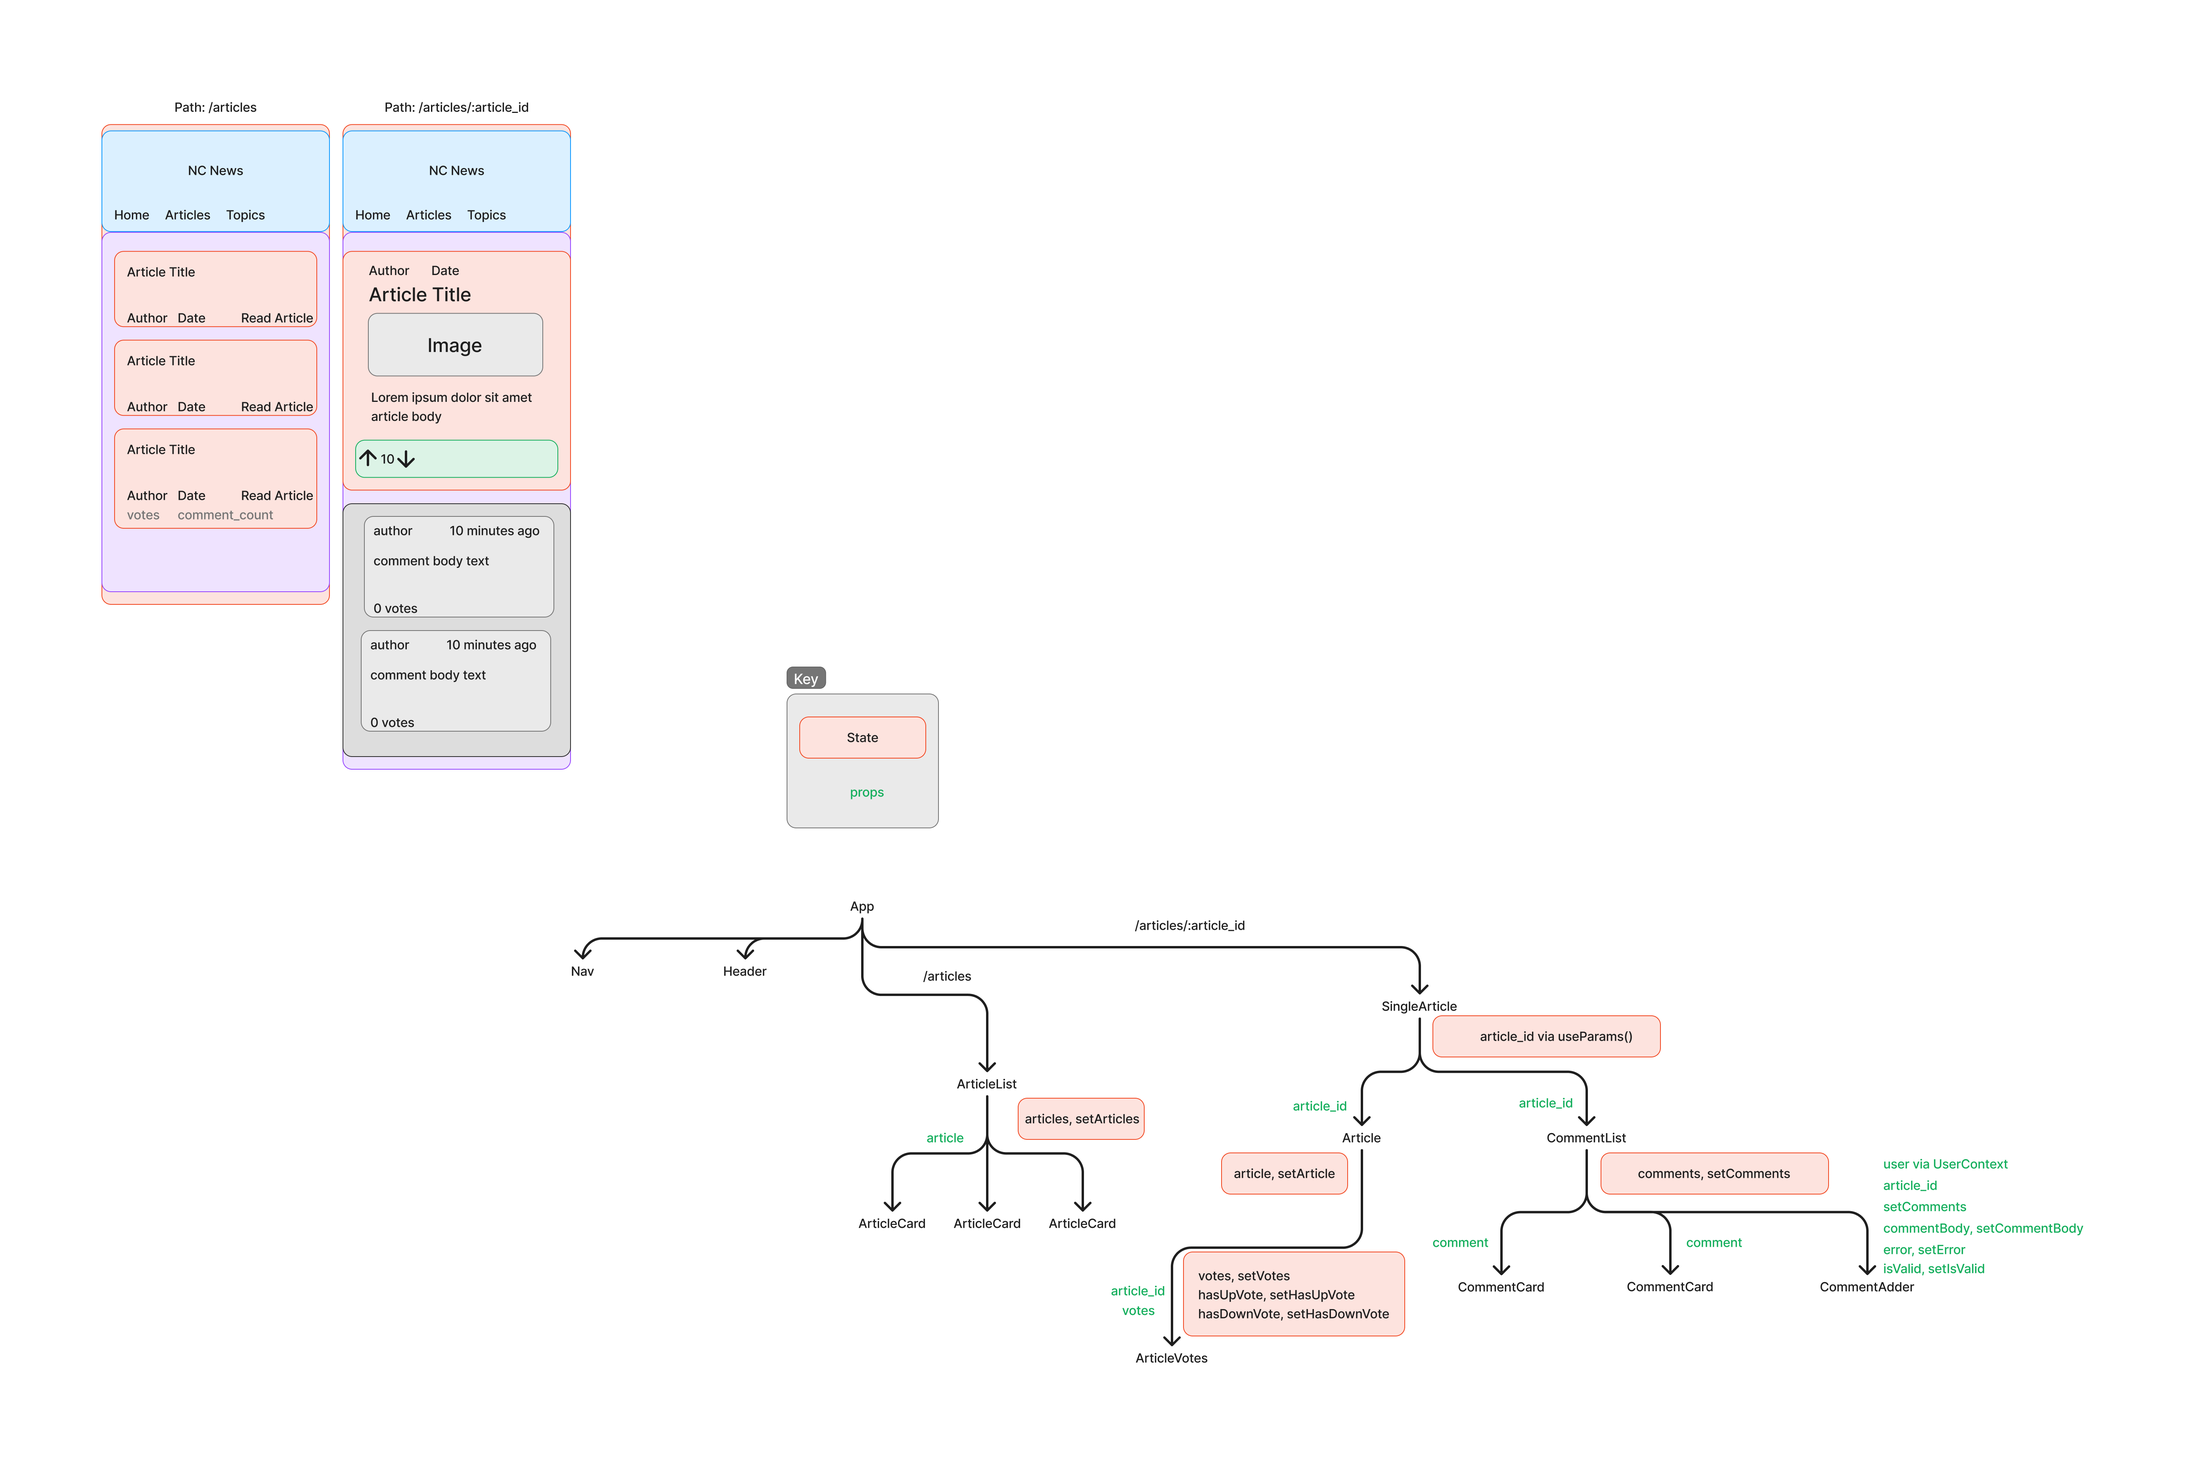
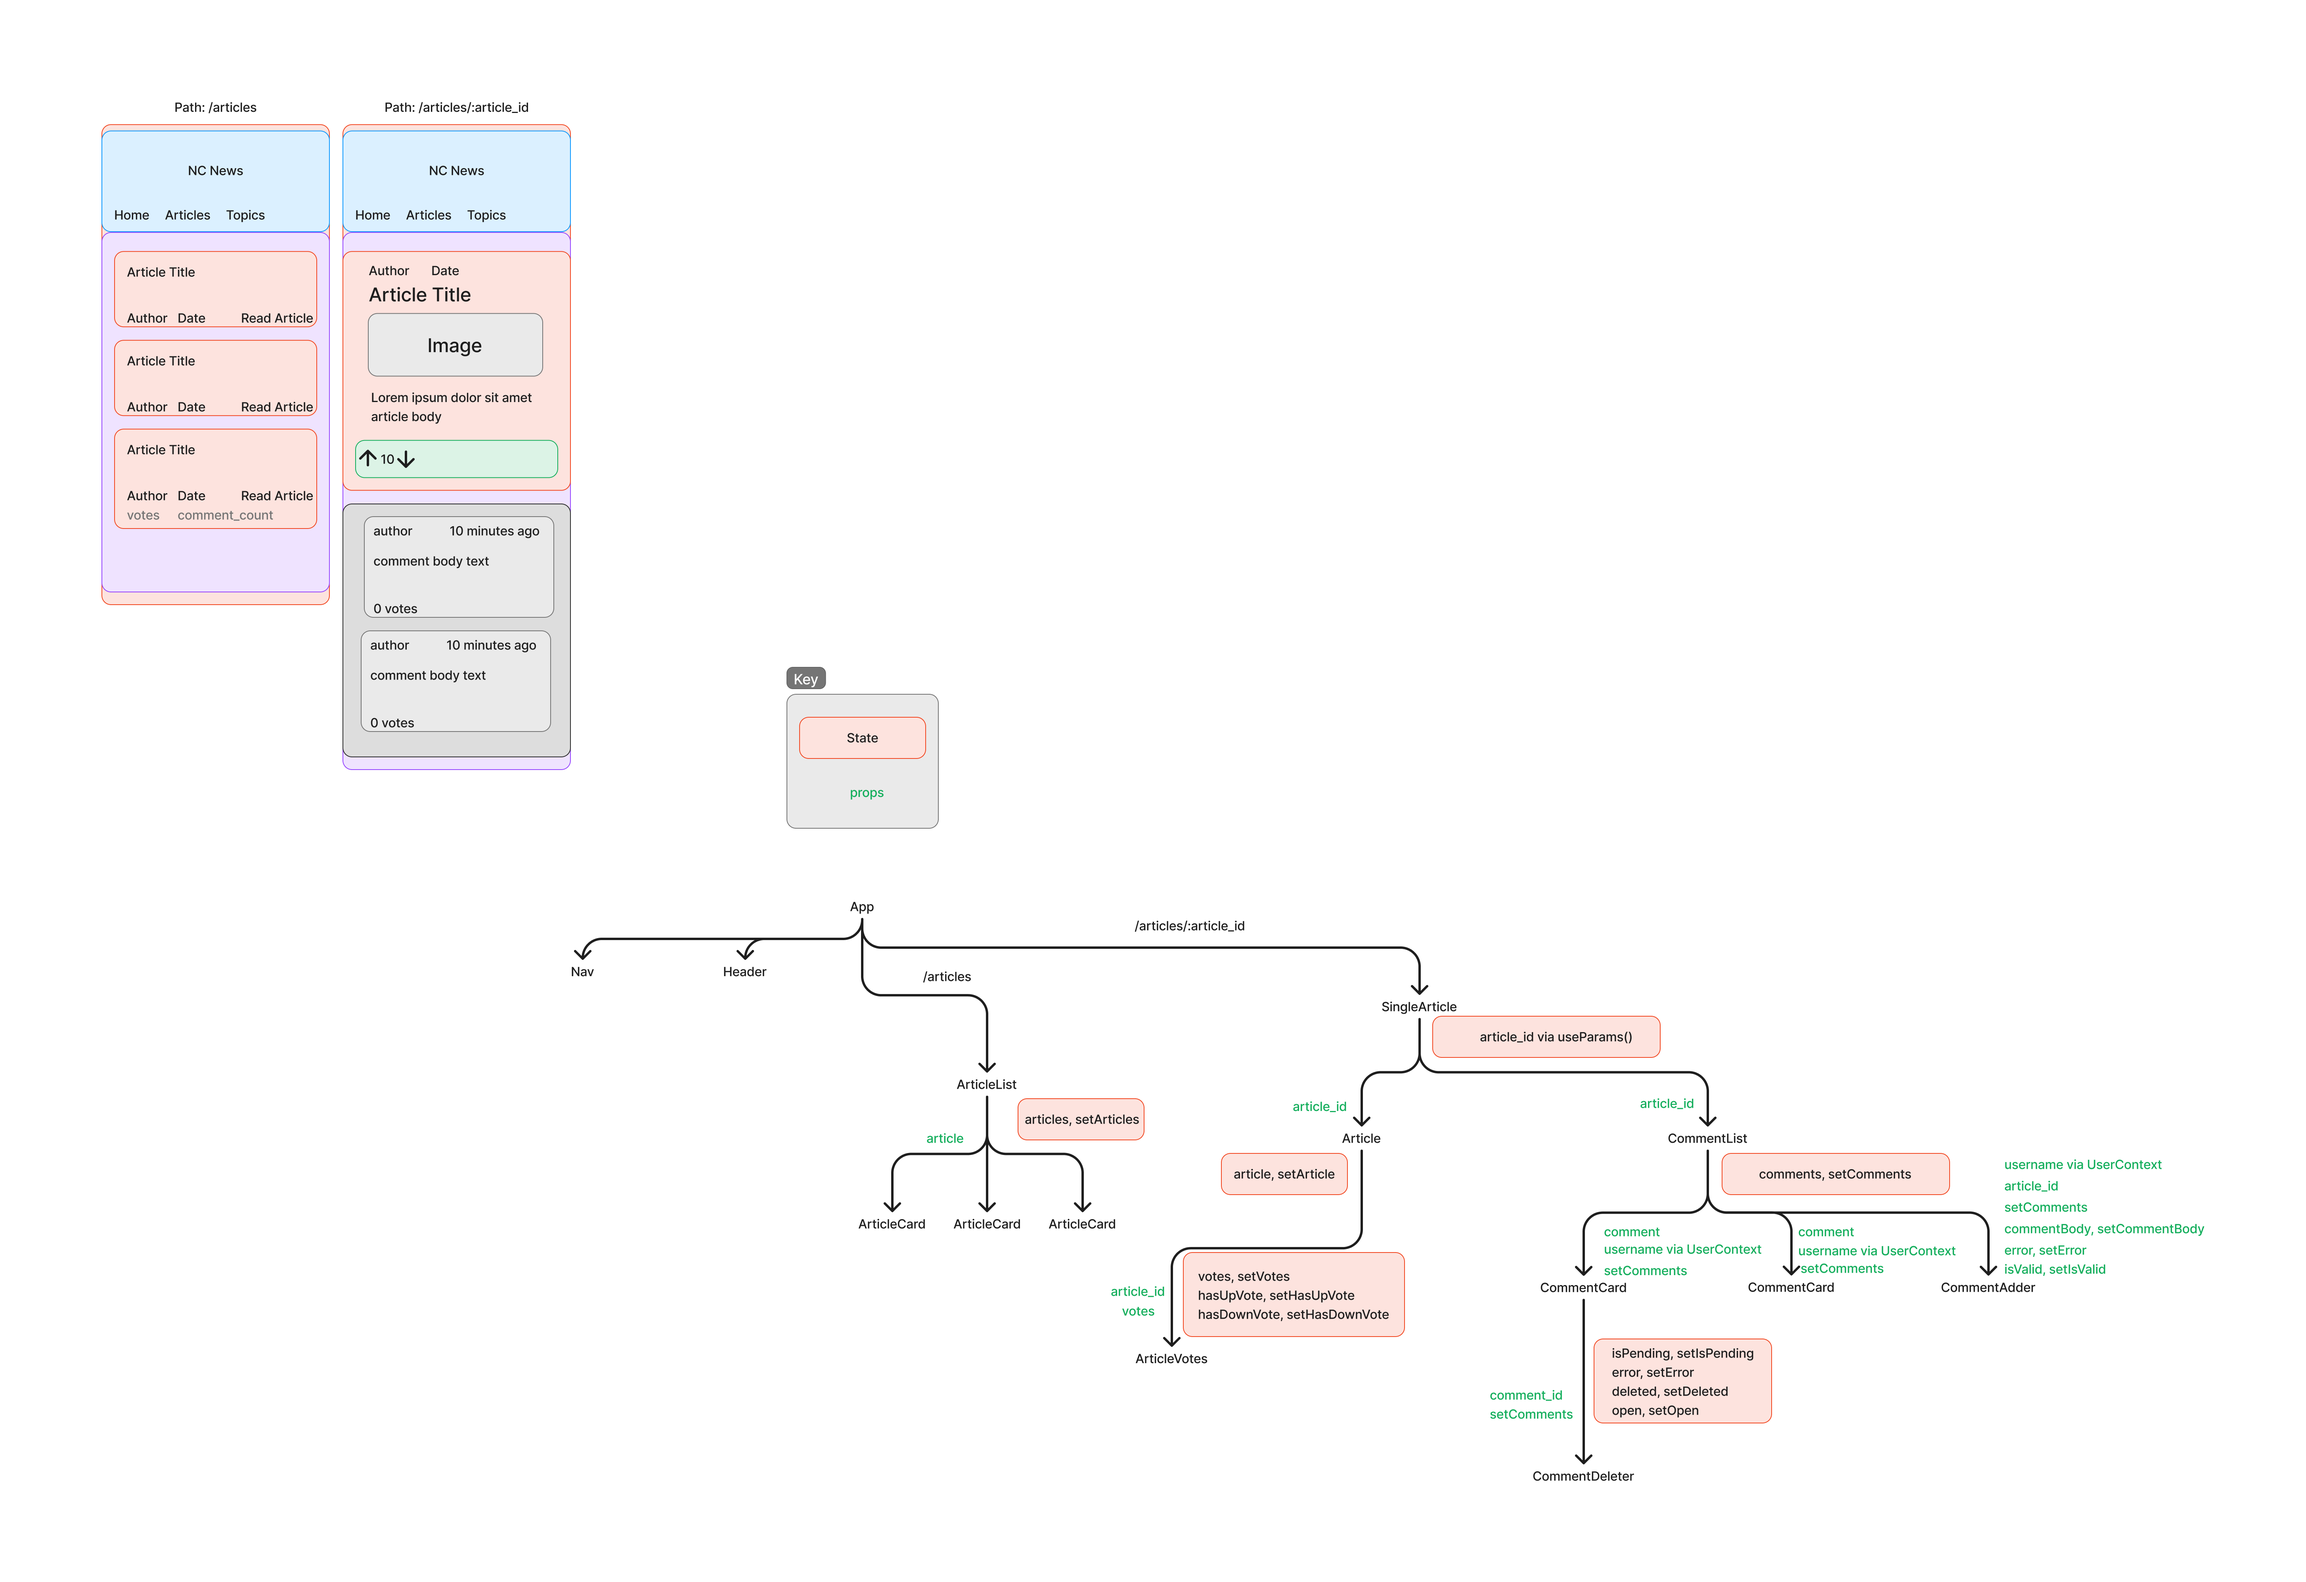
Adds CommentDelete component, util function for deleting comments on the API, modifies CommentCard to use CommentDeleter and updates NC-News Plan.png

diff --git a/src/components/CommentDeleter.jsx b/src/components/CommentDeleter.jsx
@@ -1,0 +1,135 @@
+import { useState } from "react";
+import {
+  Dialog,
+  DialogActions,
+  DialogContent,
+  DialogContentText,
+  Button,
+  IconButton,
+  DialogTitle,
+} from "@mui/material";
+import DeleteIcon from "@mui/icons-material/Delete";
+import { deleteComment } from "../utils/api";
+
+export default function CommentDeleter({ comment_id, setComments }) {
+  const [isPending, setIsPending] = useState(false);
+  const [open, setIsOpen] = useState(false);
+  const [deleted, setDeleted] = useState(false);
+  const [error, setError] = useState(false);
+
+  async function handleConfirm() {
+    try {
+      setIsPending(true);
+      await deleteComment(comment_id);
+      setIsPending(false);
+      setDeleted(true);
+    } catch (err) {
+      setIsOpen(false);
+      setIsPending(false);
+      setDeleted(false);
+      setError(err);
+    }
+  }
+
+  function handleCloseDeleteSuccess() {
+    //Remove comment from comment list only after closing the deletion success dialog.
+    //If we remove the comment before, the component will be unmounted
+    //before we get a chance to show it.
+    setComments((currComments) => {
+      return currComments.filter(
+        (comment) => comment.comment_id !== comment_id
+      );
+    });
+  }
+
+  const PendingDialog = (
+    <Dialog open={isPending}>
+      <DialogTitle color="info">Deleting Comment</DialogTitle>
+      <DialogContent>
+        <DialogContentText>Please wait...</DialogContentText>
+      </DialogContent>
+    </Dialog>
+  );
+
+  const DeleteSuccessDialog = (
+    <Dialog open={deleted}>
+      <DialogTitle color="success">Success!</DialogTitle>
+      <DialogContent>
+        <DialogContentText>Comment successfully deleted</DialogContentText>
+      </DialogContent>
+      <DialogActions>
+        <Button
+          aria-label="close delete success dialog"
+          onClick={() => {
+            handleCloseDeleteSuccess();
+          }}
+          variant="contained"
+          color="primary"
+        >
+          OK
+        </Button>
+      </DialogActions>
+    </Dialog>
+  );
+
+  const ErrorDialog = (
+    <Dialog open={Boolean(error)}>
+      <DialogTitle color="error">Error Deleting Comment</DialogTitle>
+      <DialogContent>
+        <DialogContentText>
+          An error occurred while deleting your comment
+        </DialogContentText>
+      </DialogContent>
+      <DialogActions>
+        <Button
+          aria-label="close comment deletion error dialog"
+          onClick={() => {
+            setError(null);
+          }}
+        >
+          Close
+        </Button>
+      </DialogActions>
+    </Dialog>
+  );
+
+  return (
+    <>
+      <IconButton onClick={() => setIsOpen(true)} aria-label="delete comment">
+        <DeleteIcon />
+      </IconButton>
+      {/* if error is truthy, show error dialog */}
+      {(error && ErrorDialog) ||
+        /* or if isPending is truthy, show pending dialog */
+        (isPending && PendingDialog) ||
+        /* or if deleted is truthy, show delete success dialog */
+        (deleted && DeleteSuccessDialog) || (
+          /* or if none of the above are true, show delete confirmation dialog */
+          <Dialog open={open}>
+            <DialogTitle>Delete Comment</DialogTitle>
+            <DialogContent>
+              <DialogContentText>
+                Are you sure you want to delete your comment?
+              </DialogContentText>
+            </DialogContent>
+            <DialogActions>
+              <Button
+                onClick={() => setIsOpen(false)}
+                aria-label="cancel comment deletion"
+                variant="outlined"
+              >
+                Cancel
+              </Button>
+              <Button
+                onClick={() => handleConfirm()}
+                aria-label="confirm comment deletion"
+                variant="contained"
+              >
+                Delete
+              </Button>
+            </DialogActions>
+          </Dialog>
+        )}
+    </>
+  );
+}

diff --git a/src/components/CommentCard.jsx b/src/components/CommentCard.jsx
@@ -1,10 +1,22 @@
 import { Box, Typography, Stack, Divider, Link } from "@mui/material";
+import { grey } from "@mui/material/colors";
 import { Link as RouterLink } from "react-router-dom";
+import UserContext from "../context/UserContext";
+import { useContext } from "react";
+import CommentDeleter from "./CommentDeleter";
 
-export default function CommentCard({ comment }) {
+export default function CommentCard({ comment, setComments }) {
+  const { username } = useContext(UserContext);
+  const isOwnComment = username === comment.author;
+
   return (
     <>
-      <Box sx={{ px: 2, my: 2 }}>
+      <Box
+        sx={{
+          p: 3,
+          backgroundColor: isOwnComment ? grey[50] : "",
+        }}
+      >
         <Stack>
           <Typography sx={{ mb: 1 }} variant="subtitle2" as="p">
             <Link component={RouterLink} to={`/users/${comment.author}`}>
@@ -15,12 +27,22 @@ export default function CommentCard({ comment }) {
           <Typography sx={{ mb: 1 }} variant="body2">
             {comment.body}
           </Typography>
-          <Typography variant="subtitle2" as="p">
-            {comment.votes} votes
-          </Typography>
+          <Stack direction="row" alignItems="center">
+            <Typography variant="subtitle2" as="p">
+              {comment.votes} votes
+            </Typography>
+            {isOwnComment ? (
+              <CommentDeleter
+                comment_id={comment.comment_id}
+                setComments={setComments}
+              />
+            ) : (
+              ""
+            )}
+          </Stack>
         </Stack>
       </Box>
-      <Divider sx={{ my: 2 }} />
+      <Divider />
     </>
   );
 }

diff --git a/src/components/CommentList.jsx b/src/components/CommentList.jsx
@@ -2,7 +2,6 @@ import { useState, useEffect } from "react";
 import CommentCard from "./CommentCard";
 import { getArticleComments } from "../utils/api";
 import { Box, Paper, Typography } from "@mui/material";
-import CommentAdder from "./CommentAdder";
 
 export default function CommentList({ article_id }) {
   const [isLoading, setIsLoading] = useState(true);
@@ -51,7 +50,7 @@ export default function CommentList({ article_id }) {
           comments.map((comment) => {
             return (
               <article key={comment.comment_id}>
-                <CommentCard comment={comment} />
+                <CommentCard comment={comment} setComments={setComments} />
               </article>
             );
           })

diff --git a/src/utils/api.js b/src/utils/api.js
@@ -22,4 +22,15 @@ const postArticleComment = async (articleId, data) => {
   return response.data;
 };
 
-export { getArticles, getArticle, getArticleComments, postArticleComment };
+const deleteComment = async (commentId) => {
+  const response = await api.delete(`/comments/${commentId}`);
+  return response;
+};
+
+export {
+  getArticles,
+  getArticle,
+  getArticleComments,
+  postArticleComment,
+  deleteComment,
+};
